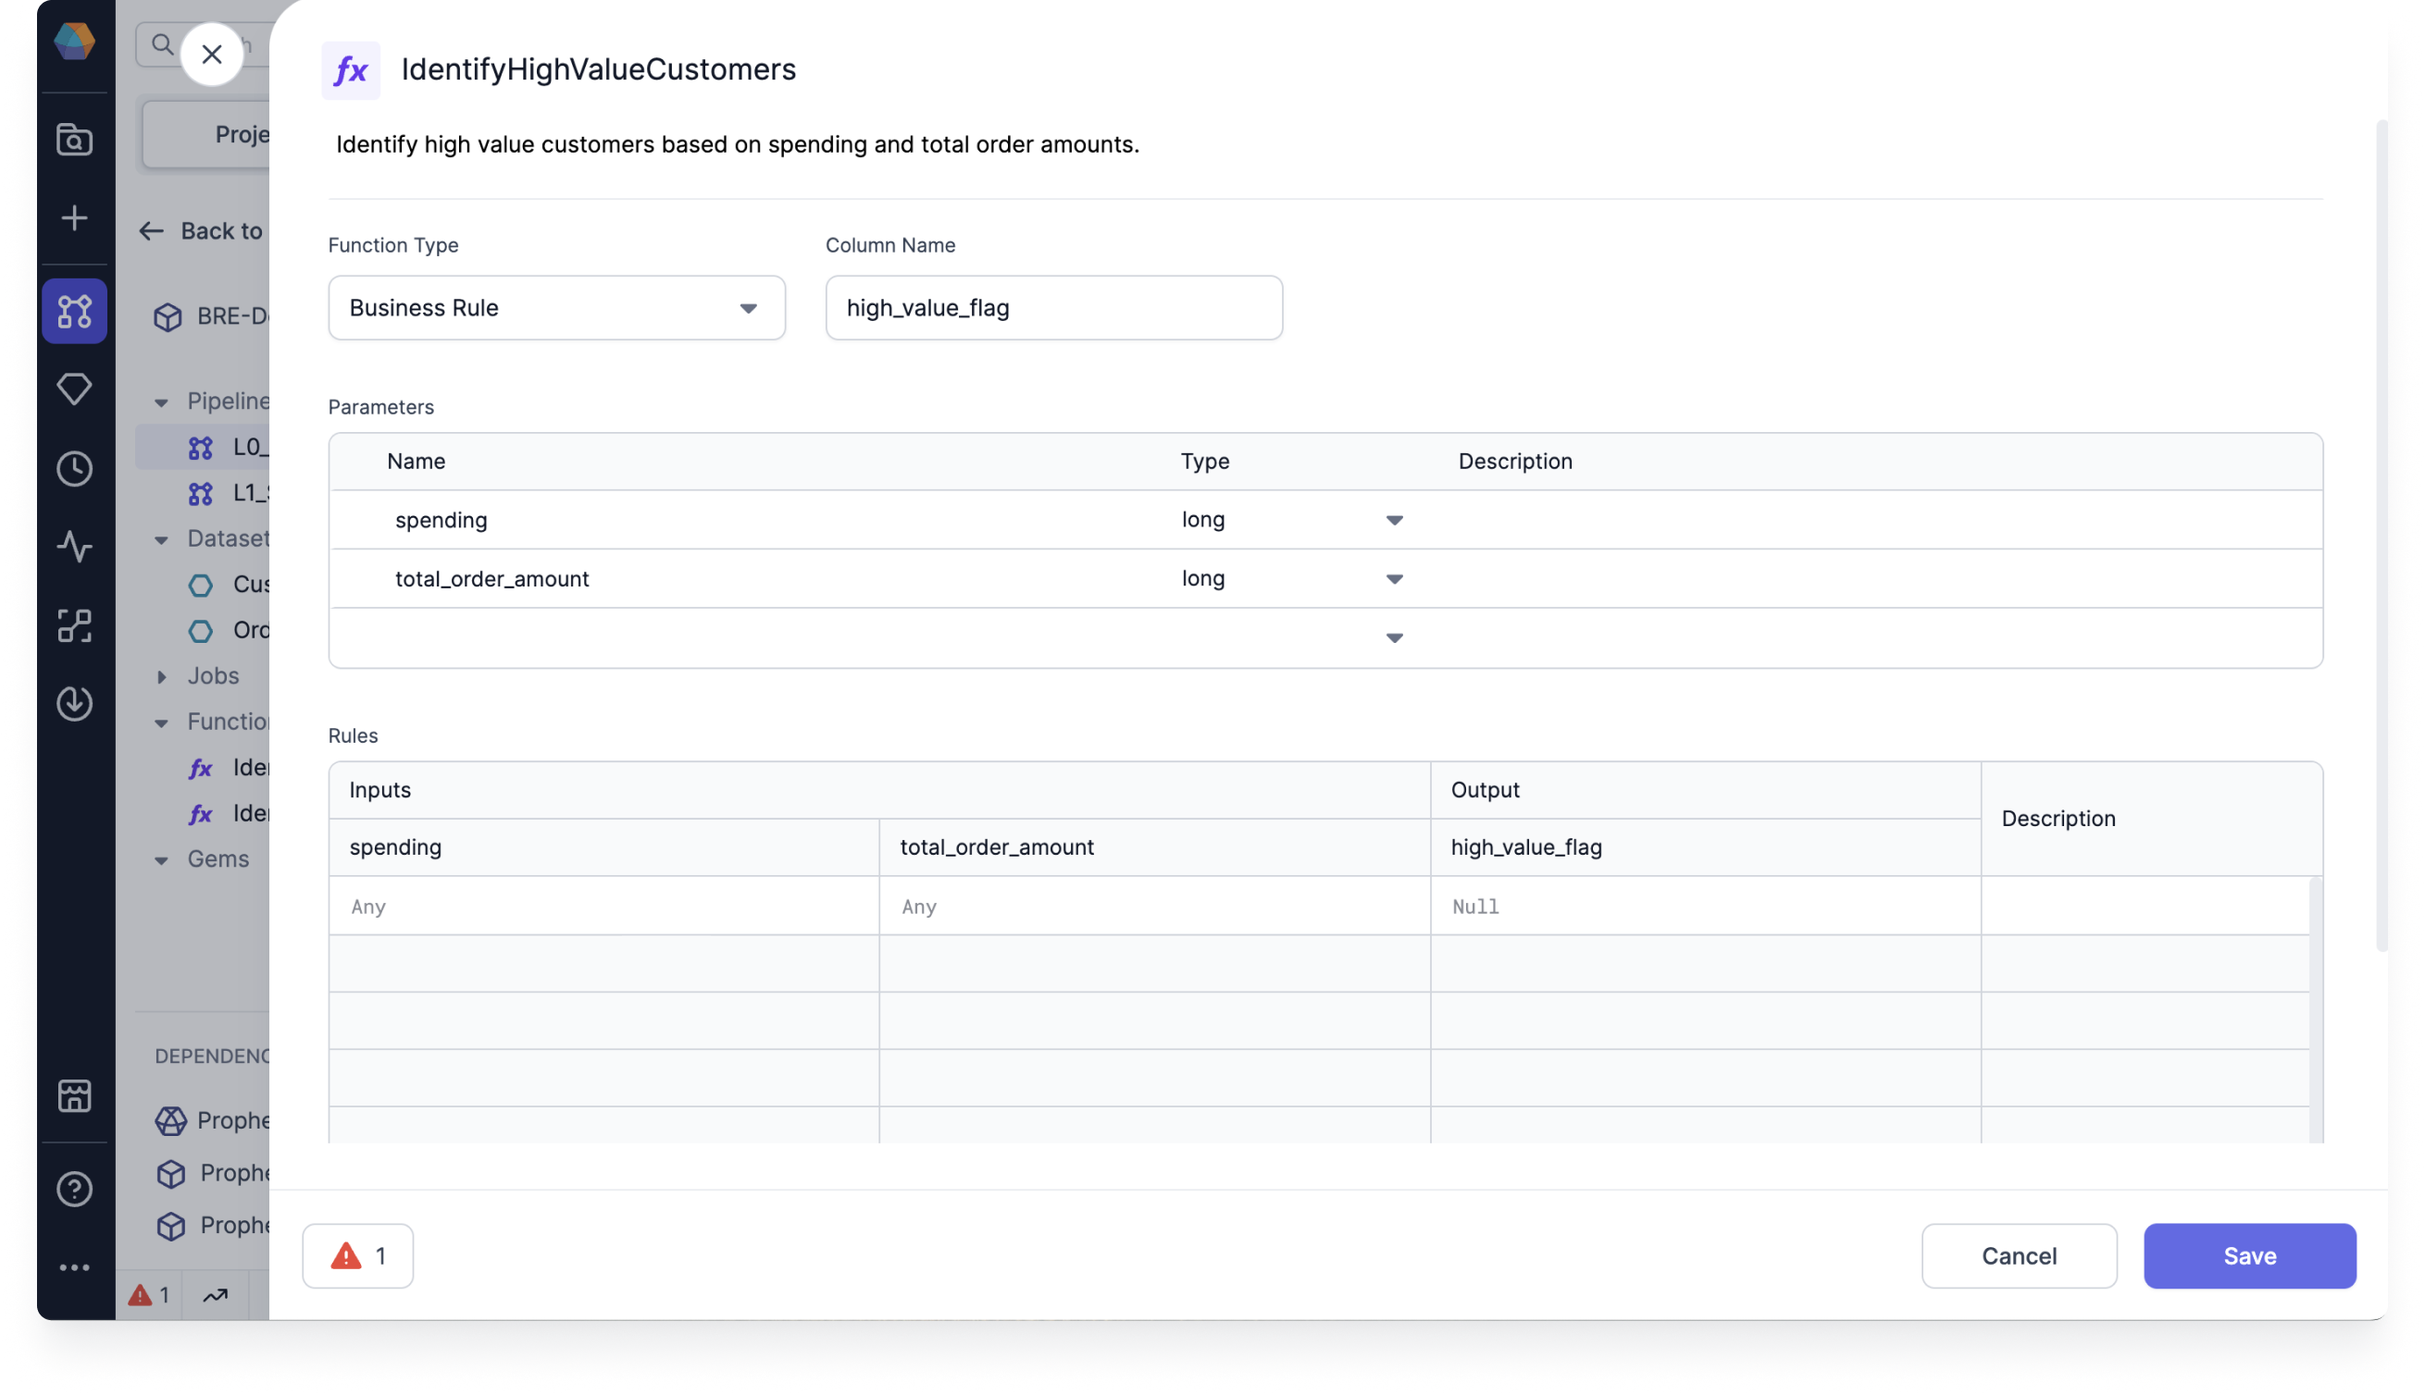
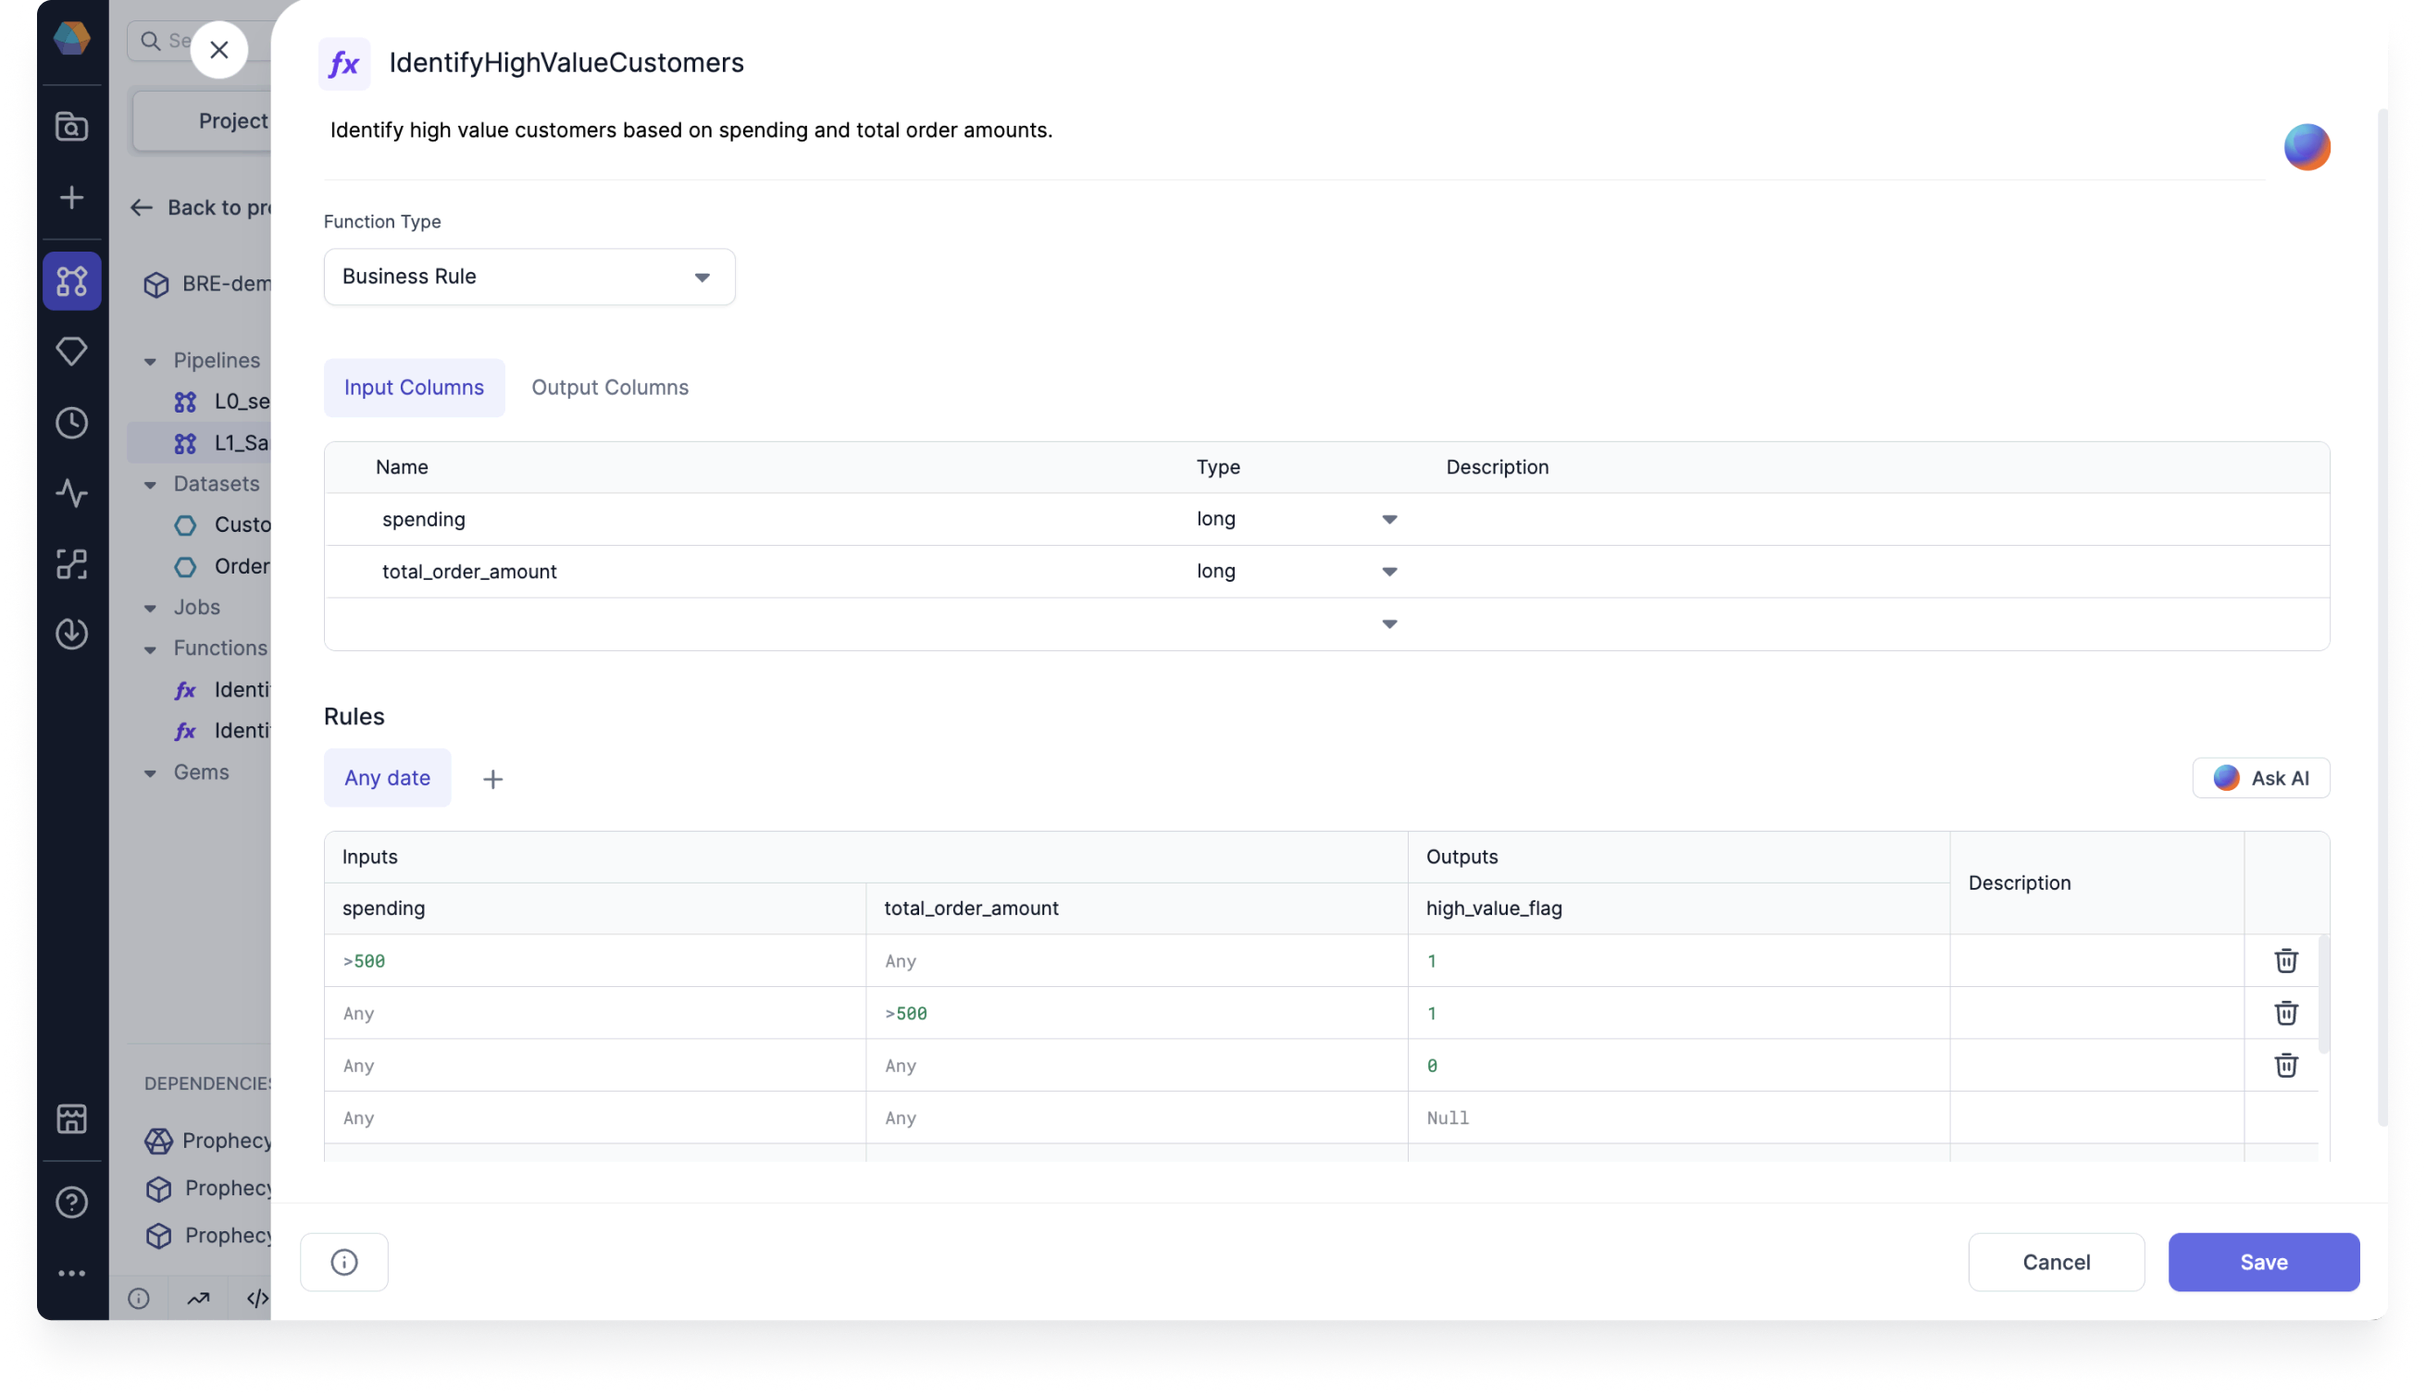
3.4.4 BRE updates (#530)
* improve bre intro and add bre info to schematransform gem page

* Add time dependency and checks info

* update screenshots and steps

* remove rule overlap comment

diff --git a/docs/Spark/functions/business-rules-engine/business-rules-engine.md b/docs/Spark/functions/business-rules-engine/business-rules-engine.md
@@ -6,17 +6,29 @@ tags:
   - business rules
 ---
 
-Business rules can be created in Spark Projects as functions. They can also be grouped and released via [Packages](docs/extensibility/package-hub/package-hub.md).
+Business rules empower organizations to model, manage, and automate repeatable business decisions throughout the enterprise.
 
-## Configuration
+## Overview
 
-| Field       | Description                                                                                                          |
-| ----------- | -------------------------------------------------------------------------------------------------------------------- |
-| Column Name | The name of the output column that the business rule will calculate.                                                 |
-| Parameters  | The columns you would like to use in your business rule condition(s). Each column must have a Name and Type defined. |
-| Rules       | The set(s) of conditions that define the business rule.                                                              |
+The business rules engine in Prophecy lets you incorporate business logic in your Pipelines. Often, different users will interact with business rules at various stages of Pipeline development. One common workflow is as follows:
 
-## Create a business rule
+1. Business users create business rules using predefined enterprise logic.
+1. These business rules are deployed and become available as [dependencies](docs/extensibility/dependencies/spark-dependencies.md) in the [Package Hub](docs/extensibility/package-hub/package-hub.md).
+1. Data engineers and others working on Pipelines can incorporate these rules using the [SchemaTransform gem](docs/Spark/gems/transform/schema-transform.md).
+
+These stages are explained in more detail below.
+
+## Business rule parameters
+
+Business rules require the following parameters.
+
+| Field          | Description                                                                                                                                       |
+| -------------- | ------------------------------------------------------------------------------------------------------------------------------------------------- |
+| Input Columns  | The columns you would like to use in your business rule conditions. Each column must have a Name and Type defined.                                |
+| Output Columns | The names of the output columns that the business rule will calculate.                                                                            |
+| Rules          | The set of conditions that define the business rule. These can be grouped by date ranges, such that they only apply during a certain time period. |
+
+## Create business rules
 
 To create a new business rule:
 
@@ -27,9 +39,9 @@ To create a new business rule:
 
 Next, you need to define the rule parameters.
 
-1. Fill in the **Column Name**. This will be the name of your output column.
-1. Define columns in the **Parameters** table using a Name, Type, and (optionally) Description.
-1. Each column in the **Parameters** table will automatically be added to the **Rules** table under **Inputs**.
+1. Define columns in the **Input Columns** table using a name, type, and (optionally) description.
+1. Define columns in the **Output Columns** table with an optional description.
+1. Each column in these tables will automatically be added to the **Rules** table.
 
 ![Rule Parameters](./img/rule-parameters.png)
 
@@ -38,6 +50,12 @@ Each row in the Rules table corresponds to one rule condition. To add a rule con
 1. Add conditions under the corresponding inputs in SQL expression format. Note that each expression must be true in a row (logical `AND`) for the rule condition to be met.
 1. Add an output value for your condition. This can be a hard-coded value, or you can write in SQL expression format. The default output value is `Null`.
 1. Optionally, you can add a description of the rule.
+
+:::note
+
+Prophecy will generate an error if there is conflicting logic in your conditions.
+
+:::
 
 ### Example: IdentifyHighSpendingCustomer
 
@@ -52,23 +70,7 @@ In this example, we created an **IdentifyHighSpendingCustomer** business rule. T
 As you can see, we needed to use multiple rule conditions to achieve this outcome. Additionally, you can see that the output is either `1` or `0`.
 This is because we decided to represent whether a customer was a high spender or not with a binary flag.
 
-## Use a business rule in your Pipeline
-
-To use a business rule in your Pipeline, you can use the [SchemaTransform Gem](docs/Spark/gems/transform/schema-transform.md).
-
-1. Add a SchemaTransform Gem to the Pipeline.
-1. Open the Gem and add the appropriate input.
-1. Click **Add Transformation**.
-1. In the **Operation** dropdown, choose **Add Rule**.
-1. Choose the appropriate rule in the **Rule** field. This will populate the **New Column** field. If an input column has the same name as the new column, then its data will be overwritten—no new column will be appended.
-
-After completing these steps, you will see the required inputs for the business rule. Prophecy will automatically check if each the required input columns are present in the Gem input. Prophecy will also check to see if the column types match. Any error messages can be found in the Diagnostics of the Gem.
-
-:::note
-You can add multiple business rules to the SchemaTransform Gem at a time. You can also use the output column of one rule as an input column for a subsequent rule.
-:::
-
-## Managing business rules in Packages
+## Share business rules
 
 You can also import business rules into Projects via Packages. Imported rules are read-only and can only be edited from their source Project.
 
@@ -99,7 +101,28 @@ When someone adds the Package as a [dependency](docs/extensibility/dependencies/
 
 This example rule includes a set of conditions to determine the type of promotions that a customer is eligible for.
 
-## Viewing the business rules in code
+## Use business rules in your Pipeline
+
+To use a business rule in your Pipeline, you can use the [SchemaTransform gem](docs/Spark/gems/transform/schema-transform.md).
+
+1. Add a SchemaTransform gem to the Pipeline.
+1. Open the gem and add the appropriate input.
+1. Click **Add Transformation**.
+1. In the **Operation** dropdown, choose **Add Rule**.
+1. Choose the appropriate rule in the **Rule** field. This will populate the **New Column** field. If an input column has the same name as the new column, then its data will be overwritten—no new column will be appended.
+
+After adding a business rule, Prophecy will automatically perform a few checks to verify that:
+
+- Each rule input column exists in the gem input.
+- The type of each rule input column matches that of the gem input.
+
+Error messages can be found in the Diagnostics of the gem.
+
+:::note
+You can add multiple business rules to the SchemaTransform gem at a time. You can also use the output column of one rule as an input column for a subsequent rule.
+:::
+
+## View the business rules in code
 
 Prophecy automatically compiles visually-developed business rules into code.
 

diff --git a/docs/Spark/gems/transform/schema-transform.md b/docs/Spark/gems/transform/schema-transform.md
@@ -4,44 +4,66 @@ id: schema-transform
 description: Add, Edit, Rename or Drop Columns
 tags:
   - gems
-  - withColumn
   - transform
   - schema
 ---
 
 <h3><span class="badge">Spark Gem</span></h3>
 
-SchemaTransform is used to add, edit, rename or drop columns from the incoming DataFrame.
+Use the SchemaTransform Gem to apply transformations to columns from the incoming DataFrame. This page describes the different transformations—or _operations_—that you can use in this Gem.
+
+![Example usage of SchemaTransform](./img/schemaTransform_eg_1.png)
 
 :::info
 Unlike Reformat which is a set operation where all the transforms are applied in parallel, transformations here are applied _in order_.
 Reformat is a SQL `select` and is preferable when making many changes.
 :::
 
-## Parameters
+## Operations
 
-| Parameter       | Description                                                                | Required                                     |
-| :-------------- | :------------------------------------------------------------------------- | :------------------------------------------- |
-| DataFrame       | Input DataFrame                                                            | True                                         |
-| Operation       | `Add/Replace Column`, `Rename Column` and `Drop Column`                    | Required if a transformation is added        |
-| New Column      | Output column name (when Add/Replace operation is selected)                | Required if `Add/Replace Column` is selected |
-| Expression      | Expression to generate new column (when Add/Replace operation is selected) | Required if `Add/Replace Column` is selected |
-| Old Column Name | Column to be renamed (when Rename operation is selected)                   | Required if `Rename Column` is selected      |
-| New Column Name | Output column name (when Rename operation is selected)                     | Required if `Rename Column` is selected      |
-| Column to drop  | Column to be dropped (when Drop operation is selected)                     | Required if `Drop Column` is selected        |
+### Add/Replace Expression
 
-## Operation types
+Add a new column or replace an existing one based on an expression.
 
-| Operation Type | Description                                                                                                                                                                                                       |
-| -------------- | ----------------------------------------------------------------------------------------------------------------------------------------------------------------------------------------------------------------- |
-| Add/Replace    | Add a new column or replace an existing one based on an expression                                                                                                                                                |
-| Drop           | Removes a single column from the next stages of the pipeline. This is useful if you need 9 out of 10 columns, for example.                                                                                        |
-| Rename         | Renames an existing column                                                                                                                                                                                        |
-| Add if Missing | Provide a default value for a column if it's missing from the source. For example, if reading from a CSV file daily and want to ensure a column has a value even if it's not in the source files use this option. |
+| Parameter  | Description                                         |
+| ---------- | --------------------------------------------------- |
+| New Column | Output column name                                  |
+| Expression | SQL expression to generate values in the new column |
 
-## Example
+### Drop Column
 
-![Example usage of SchemaTransform](./img/schemaTransform_eg_1.png)
+Remove a column from next stage of the Pipeline.
+
+| Parameter      | Description          |
+| -------------- | -------------------- |
+| Column to drop | Column to be dropped |
+
+### Rename Column
+
+Rename an existing column downstream in the Pipeline.
+
+| Parameter       | Description          |
+| --------------- | -------------------- |
+| Old Column Name | Column to be renamed |
+| New Column Name | Output column name   |
+
+### Add If Missing
+
+Provide a default value for a column if it is missing from the source.
+
+| Parameter                  | Description                                |
+| -------------------------- | ------------------------------------------ |
+| Source Column Name         | Column that contains missing values        |
+| Default Value (if missing) | The value that will replace missing values |
+
+### Add Rule
+
+Use a business rule in your Pipeline. Visit the [Business rules engine](docs/Spark/functions/business-rules-engine/business-rules-engine.md) page to learn about business rules.
+
+| Parameter  | Description                                                                        |
+| ---------- | ---------------------------------------------------------------------------------- |
+| New Column | The column that the business rule will apply to                                    |
+| Rule       | The business rule that contains the logic that will populate the new column values |
 
 ## Spark Code
 
@@ -85,15 +107,10 @@ The Advanced Import feature allows you to bulk import statements that are struct
 
 ### Using Advanced Import
 
-1. Click the **Advanced** button in the SchemaTransform Gem UI
-
-![Advanced import toggle](./img/schematransform_advanced_1.png)
-
-2. Enter the expressions into the text area using the format as described below:
+1. Click the **Advanced** tab in the SchemaTransform Gem.
+2. Enter the expressions into the text area.
 
 ![Advanced import mode](./img/schematransform_advanced_2.png)
-
-3. Use the button at the top (labeled **Expressions**) to switch back to the expressions view. This will translate the expressions from the CSV format to the table format and will show any errors detected.
 
 ### Format
 
@@ -118,3 +135,4 @@ addrep,full_name,``concat(first_name, ' ', last_name)``
 | Drop           | `drop`               | 1           | `drop bar`                        |
 | Rename         | `rename`             | 2           | `rename,foo,bar`                  |
 | Add if missing | `missing`            | 2           | `missing,foo,current_timestamp()` |
+| Add rule       | `addrule`            | 1           | `addrule, PromoCodeRule()`        |
